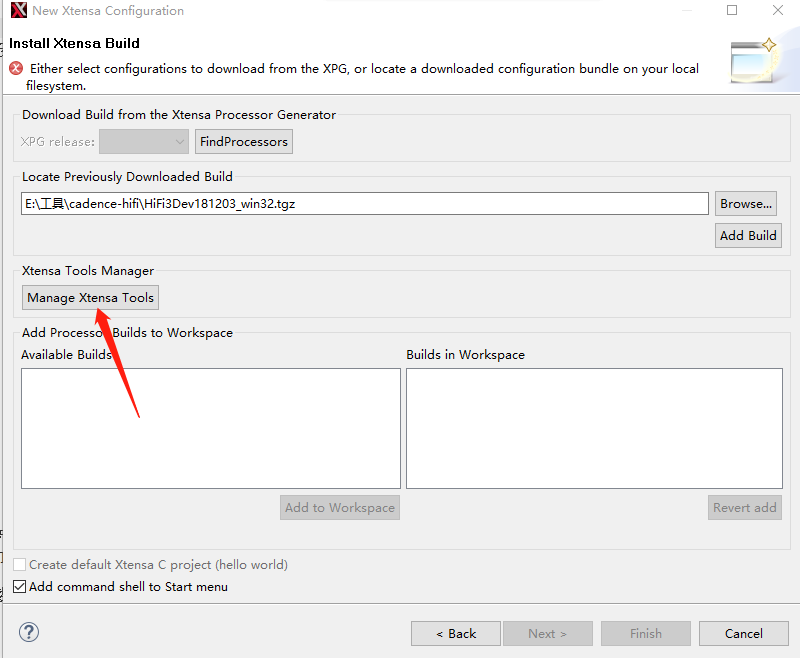
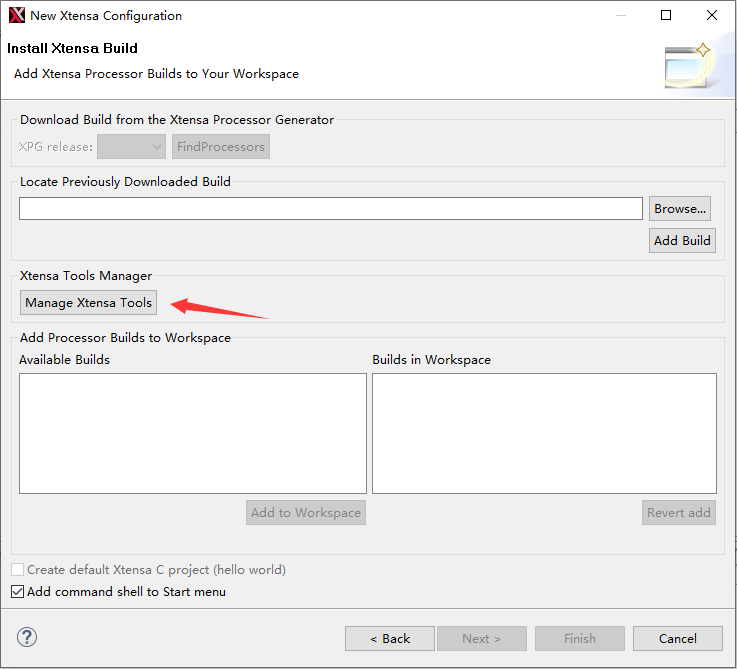
DSP: Update Rockchip_Developer_Guide_RTOS_DSP_CN to V2.1.0
1 Update software environment setup instructions
2 Add description of algorithm library

Changed region(s): [[0.0, 0.0, 1.0, 1.0], [0.3121, 0.5167, 0.6554, 0.7903], [0.4681, 0.9119, 0.4993, 0.9422]]

diff --git a/DSP/Rockchip_Developer_Guide_RTOS_DSP_CN.md b/DSP/Rockchip_Developer_Guide_RTOS_DSP_CN.md
@@ -2,9 +2,9 @@
 
 文件标识：RK-KF-YF-302
 
-发布版本：V1.9.0
+发布版本：V2.1.0
 
-日期：2020-09-18
+日期：2021-02-03
 
 文件密级：□绝密   □秘密   □内部资料   ■公开
 
@@ -20,7 +20,7 @@
 
 本文档可能提及的其他所有注册商标或商标，由其各自拥有者所有。
 
-**版权所有** **© 2020** **瑞芯微电子股份有限公司**
+**版权所有** **© 2021** **瑞芯微电子股份有限公司**
 
 超越合理使用范畴，非经本公司书面许可，任何单位和个人不得擅自摘抄、复制本文档内容的部分或全部，并不得以任何形式传播。
 
@@ -76,6 +76,7 @@ Rockchip Electronics Co., Ltd.
 | 2020-06-18 | V1.7.0 | 吴佳健 | 更新打包工具说明 |
 | 2020-08-06 | V1.8.0 | 吴佳健 | 新增Vendor Key校验说明 |
 | 2020-09-18 | V1.9.0 | 吴佳健 | 更新Map配置信息修改方式和XIP模式说明 |
+| 2021-02-03 | V2.1.0 | 吴佳健 | 更新软件环境搭建说明，新增算法库相关说明 |
 
 ---
 
@@ -99,179 +100,33 @@ DSP 即数字信号处理技术。DSP 作为数字信号处理器将模拟信号
 
 ## HIFI3 软件环境搭建
 
-### License 安装
-
-License是和MAC地址绑定的。如果需要多台机器使用，那么需要搭建License服务器，但是同时只能一台机器访问License服务器。服务器搭建步骤参考2.2章的内容。
-
-如果是单台机器使用，那么直接使用本地目录的License文件，不需要搭建服务器。打开 Xplorer 工具，打开 “help” --  “Xplorer License Keys” ，点击 ”Install License Keys”，输入文件路径名。完成后，点击 ”License Options” 或 ”Check Xtensa Tools Keys” 确认 License 状态。需要注意mac地址要和liscense中的host id一致。
-
-![Xplorer_License_Keys](Rockchip_Developer_Guide_RTOS_DSP/Xplorer_License_File_Config.png)
-
-### Floating License Server 搭建
-
-- 将相关文件放置到服务器
-
-```txt
-/usr/local/flexlm
-├── licenses
-│   ├── license.dat
-│   └── license.data
-├── lmgrd
-├── lmutil
-├── logs
-│   └── lmgrd.log
-├── softwareserver_2018-12-13.lic # license文件
-├── xtensad
-└── xtensa_lic_test.linux
-```
-
-- 安装依赖文件
-
-依赖 lsb-core, CentOS/RedHat 发行版默认自带，Ubuntu 18.04 安装方法如下：
-
-```console
-sudo apt install lsb-core
-```
-
-其他发行版或 Ubuntu <= 16.04 的安装包名、方法不同，自行 Google.
-
-- License 文件修改
-
-License 文件格式如下，根据服务器 MAC 生成，将 Host 改为服务器的主机名，MAC 改为服务器的网卡 MAC 地址，格式为“AABBCCDDEEFF”，将端口改为需要开放的端口号，如 27000 。
-
-```txt
-SERVER <host> <mac> <port>
-VENDOR xtensad <path_to_xtensad>
-USE_SERVER
-
-PACKAGE
-...
-```
-
-- 配置 flexlm 服务
-
-在 /etc/init.d/ 目录下，新增 flexlm 文件，内容如下：
-
-```sh
-#!/bin/sh
-
-### BEGIN INIT INFO
-# Provides:          flexlm
-# Required-Start:    $local_fs $syslog
-# Required-Stop:     $local_fs $syslog
-# Should-Start:      autofs $network $named
-# Should-Stop:       autofs $network $named
-# Default-Start:     2 3 4 5
-# Default-Stop:      0 1 6
-# Short-Description: lmgrd init script
-# Description:       Cadence Flexlm license manager daemon
-### END INIT INFO
-
-# Author: Cody Xie <cody.xie@rock-chips.com>
-
-. /lib/lsb/init-functions
-
-PATH=/usr/local/flexlm:/bin:/usr/bin:/sbin:/usr/sbin
-NAME=flexlm
-DESC="The Cadence flexlm license daemon lmgrd"
-DAEMON=/usr/local/flexlm/lmgrd
-LIC=/usr/local/flexlm/softwareserver_2018-12-13.lic
-LOG=/usr/local/flexlm/logs/lmgrd.log
-LMGRD_OPTS="-c $LIC -l $LOG"
-PIDFILE=/run/$NAME.pid
-
-[ -x "$DAEMON" ] || exit 0
-
-lmgrd_start () {
-    log_daemon_msg "Starting $DESC" "$NAME"
-    start-stop-daemon --start --quiet --oknodo --pidfile "$PIDFILE" \
-        --exec "$DAEMON" -- $LMGRD_OPTS
-    log_end_msg $?
-}
-
-lmgrd_stop () {
-    log_daemon_msg "Stopping $DESC" "$NAME"
-    start-stop-daemon --stop --quiet --oknodo --retry 5 --pidfile "$PIDFILE" \
-        --exec $DAEMON
-    log_end_msg $?
-}
-
-case "$1" in
-    start)
-        lmgrd_start
-        ;;
-    stop)
-        lmgrd_stop
-        ;;
-    status)
-    	status_of_proc -p $PIDFILE $DAEMON $NAME
-	;;
-    restart|force-reload)
-        lmgrd_stop
-        lmgrd_start
-        ;;
-    force-start)
-        lmgrd_start
-        ;;
-    force-restart)
-        lmgrd_stop
-        lmgrd_start
-        ;;
-    force-reload)
-	lmgrd_stop
-	lmgrd_start
-	;;
-    *)
-        echo "Usage: $0 {start|stop|restart|force-reload}"
-        exit 2
-        ;;
-esac
-```
-
-安装 flexlm 服务并开机自动启动
-
-```console
-sudo cd /etc/init.d
-sudo chmod +x flexlm
-sudo update-rc.d flexlm defaults
-sudo update-rc.d flexlm enable
-```
-
-- 确认 License 服务器工作正常
-
-打开 Xplorer 工具，打开 “help” --> “Xplorer License Keys” ，点击”Install License Keys” ，输入 “27000@host”，其中 host 为 服务器主机名或 IP 地址，完成后，点击 ” License Options”  或 ”Check Xtensa Tools Keys”  确认 License 状态。
-
-![Xplorer_License_Keys](Rockchip_Developer_Guide_RTOS_DSP/Xplorer_License_Keys.png)
-
-![Xplorer_License_Config](Rockchip_Developer_Guide_RTOS_DSP/Xplorer_License_Config.png)
-
-![Xplorer_License_Config](Rockchip_Developer_Guide_RTOS_DSP/Success_Install_Key_1.png)
-
 ### Xplorer 工具安装
 
 #### Windows环境
 
-Cadence 开发工具全称为“RUN Xplorer 8.0.8”，下载工具需要到  [Cadence 官方网站申请](https://ip.cadence.com/support/sdk-evaluation-request)，License 需要联系 Cadence 获取，我们当前使用的工具安装包为”Xplorer-8.0.8-windows-installer.exe“。
+HiFi3开发工具全称为“Xtensa Xplorer 8.0.8”，License 需要联系 Cadence 获取。我们当前使用的工具安装包为”Xplorer-8.0.8-windows-installer.exe“，配置包为“HiFi3Dev181203_win32.tgz”，配置包基于 RG-2018.9 的基础工具安装包“XtensaTools_RG_2018_9_win32.tgz”。相关安装包都需要找开发人员获取。
 
-工具安装好后，需要先安装数据包“HiFi3Dev181203_win32.tgz”，数据包基于 RG-2018.9 的基础工具安装包“XtensaTools_RG_2018_9_win32.tgz”。相关安装包都需要找开发人员获取。
+先安装Xplorer-8.0.8-windows-installer.exe，按照提示即可完成安装。
 
-安装方法是在 Xplorer 中，”File” --> ”New” --> ”Xtensa Configuration”，找到下图的配置页面并点击 Install 选项：
+安装完成后，需要安装工具包，在 Xplorer 中，”File” --> ”New” --> ”Xtensa Configuration”，找到下图的配置页面并点击 Install 选项，然后点击Next：
 
 ![Xtensa_Configuration](Rockchip_Developer_Guide_RTOS_DSP/Xtensa_Configuration.png)
+
+先点击Manege Xtensa Tools，在弹出的窗口点击Install from Distribution，选择XtensaTools_RG_2018_9_win32.tgz工具包路径，按提示安装。
 
 ![Xtensa_Install_config_1](Rockchip_Developer_Guide_RTOS_DSP/Xtensa_Install_config_1.png)
 
 ![Xtensa_Install_config_2](Rockchip_Developer_Guide_RTOS_DSP/Xtensa_Install_config_2.png)
 
+安装完工具包后，返回下图界面，点击Browse选择HiFi3Dev181203_win32.tgz配置包，再点击Add Build添加配置包，待下方窗口显示出对应包名后，点击Finish完成安装。
+
 ![Xtensa_Install_config_3](Rockchip_Developer_Guide_RTOS_DSP/Xtensa_Install_config_3.png)
 
-点击 Next 并且选择文件“HiFi3Dev181203_win32.tgz”后，会提示安装 RG-2018.9，这时候点击“Manage Xtensa Tools”安装“XtensaTools_RG_2018_9_win32.tgz”，安装完成后，点击“Add Build”，就可以进行数据包的安装操作。
-
-数据包安装完成后，会在工具栏看到"C:(Active configuration)"栏目中看到 HiFi3Dev181203，点击并选中：
+数据包安装完成后，会在工具栏看到"C:(Active configuration)"，点击箭头出现下拉框，可在栏目中看到 HiFi3Dev181203，点击并选中：
 
 ![HiFi3Dev181304](Rockchip_Developer_Guide_RTOS_DSP/HiFi3Dev181304.png)
 
-这时候软件左下角的 System Overivew 就会看到相关 HiFi3Dev181304 的配置文件，点击相关文件，会看到当前 Core 的配置信息。可以看到对应的 ITCM、DTCM、中断号等。连接外部 INTC 的中断为 INterrupt0.
+这时候软件左下角的 System Overview 就会看到相关 HiFi3Dev181304 的配置文件，点击相关文件，会看到当前 Core 的配置信息。可以看到对应的 ITCM、DTCM、中断号等。连接外部 INTC 的中断为 INterrupt0.
 
 ![HiFi3Dev181304_Detail](Rockchip_Developer_Guide_RTOS_DSP/HiFi3Dev181304_Detail.png)
 
@@ -302,13 +157,43 @@ sudo apt-get install ncurses-libs.i686 -y
 sudo apt-get install redhat-lsb.i686 -y
 ```
 
-### DSP 代码下载及编译
+### License 安装
 
-工程目录在根目录的 Projects 下，存放不同工程的配置文件和工程文件。
+打开 Xplorer 工具，打开 “Help” --  “Xplorer License Keys” ，点击 ”Install License Keys”，输入文件路径名。完成后，点击 ”License Options” 或 ”Check Xtensa Tools Keys” 确认 License 状态。需要注意mac地址要和liscense中的host id一致。
 
-通过 ”File” -->  ”Import” -->  ”Genaral” -->  ”Existing Projects into Workspace”导入工程代码，不同项目对应不同的工程名称，RK2108 对应工程名是 RK2108 ，RK2206 对应工程名是 RK2206。
+![Xplorer_License_Keys](Rockchip_Developer_Guide_RTOS_DSP/Xplorer_License_File_Config.png)
 
-在工具栏选择编译的优化等级，分为 Debug、Release 和 ReleaseSize。不同优化等级对代码有不同程度的优化，具体的优化内容可以进入配置选项查看。点击工具栏的“Build Active”即可正常进行编译，编译结果存放在工程目录的 bin 目录下。
+### 工程导入及编译
+
+#### 工程导入
+
+工程目录在根目录的 Projects 下，路径为hifi3/rkdsp/projects，存放不同工程的配置文件和工程文件。
+
+通过 ”File” -->  ”Import” -->  ”Genaral” -->  ”Existing Projects into Workspace”，点击Browse，找到projects目录，按需要导入工程代码，不同项目对应不同的工程名称，如RK2108 对应工程名是 RK2108 ，RK2206 对应工程名是 RK2206。
+
+导入工程后，可在工具栏No Active Project标签处，点击右侧箭头，下拉选择目标工程，如P:RK2108。
+
+#### 编译选项说明
+
+在工具栏选择编译的Target，分为 Debug、Release 和 ReleaseSize。不同Target设置了不同的优化等级，对代码有不同程度的优化，具体的优化内容可以进入Target修改界面查看和修改，或根据需要自行构建Target。各配置可点击菜单栏T:Debug右侧下拉箭头进行切换。点击其中的Modify可以进入Target修改界面。
+
+Target修改界面常用标签栏有：
+
+Symbols：添加宏定义。
+
+Optimization：修改编译选项。
+
+Linker：选择MAP目录，即链接脚本目录。
+
+Libraries：管理库文件路径。
+
+Addl Linker：添加链接库或编译选项。
+
+并可在窗口下方的All Options确认编译选项是否与预期一致。
+
+#### 编译
+
+目标工程、配置包、Target都选择完毕后，点击工具栏的“Build Active”即可正常进行编译，编译结果存放在工程目录的 bin 目录下。
 
 ### DSP 固件生成
 
@@ -669,6 +554,58 @@ config end
 [A.DspTe][000024.61]work result:0x00000000
 [A.DspTe][000024.61]work result:0x00000000
 ```
+
+## 算法库创建及使用
+
+### 工程创建
+
+点击File->New->Xtensa C/C++ Project，在接下来的界面中填入工程相关信息。Location也就是工程目录，可以用默认的，也可以自己选择。点击Finish后，在“Project Explorer”栏目中可以看到新建的工程“libasr”。
+
+![New Project](Rockchip_Developer_Guide_RTOS_DSP/Xplorer_New_Project.png)
+
+相关的头文件和库文件可以直接放到工程目录下，也可以右击工程，点击File->Import->General->File System，在Browse中选取代码文件或者目录，在Into folder选择导入的位置。“Create links in workspace”表示只创建文件的链接，文件本身不会拷贝到工程目录下，这样方便维系代码路径结构。我司提供的工程也是采用这种文件形式。
+
+![Import File Sytem](Rockchip_Developer_Guide_RTOS_DSP/Xplorer_Import_File_System.png)
+
+### 库文件生成
+
+参考[编译选项说明](#编译选项说明)，对编译选项进行修改，确认后，可点击Build Active开始编译。编译完成后，将在project/bin/HiFi3Dev181203/<Target>/中生成libasr.a文件。Target指的是[编译选项说明](#编译选项说明)中提到的Debug、Release、ReleaseSize等。接下来把库文件和需要的头文件放到新建目录libasr，供给应用工程使用。
+
+### 算法库导入
+
+将生成的libasr.a放入hifi3/rkdsp/library/libasr中，然后通过点击File->Import->File System导入工程。然后进入Target修改界面，在Addl linker标签页中添加“-lasr”。在Librarys标签页中添加路径“${xt_project_loc}\\..\\..\library\libasr”。在Linker标签页中的选取合适的map。
+
+接下来进行接口适配，一般会在libasr文件夹中添加一个适配文件libasr.cpp和libasr.h，并导入工程，具体接口参考工程示例。然后在algorithm_handler.cpp添加调用接口。
+
+### 常见编译报错
+
+1. 找不到库文件
+
+   确认Librarys标签页中路径是否正确，libxxx.a文件是否命名正确(必须为libxxx.a的形式，且中间的xxx为库名，添加链接时使用-lxxx)，且放在正确的路径，并且导入工程成功。
+
+2. 找不到函数定义
+
+   先与问题1一样，排查库导入是否正确。再确认.a对应的.h文件中，接口函数声明处是否有使用extern “C”声明，形式如下：
+
+   ```c
+   #ifndef __LIBXXX_H__
+   #define __LIBXXX_H__
+
+   #ifdef __cplusplus
+   extern "C" {
+   #endif
+
+   int libxxx_init(int arg);
+   int libxxx_deinit(int arg);
+
+   #ifdef __cplusplus
+   }
+   #endif
+
+   #endif // __LIBXXX_H__
+   ```
+
+   或将接口文件如libasr.cpp改为libasr.c重新编译。
 
 ## XIP模式
 
